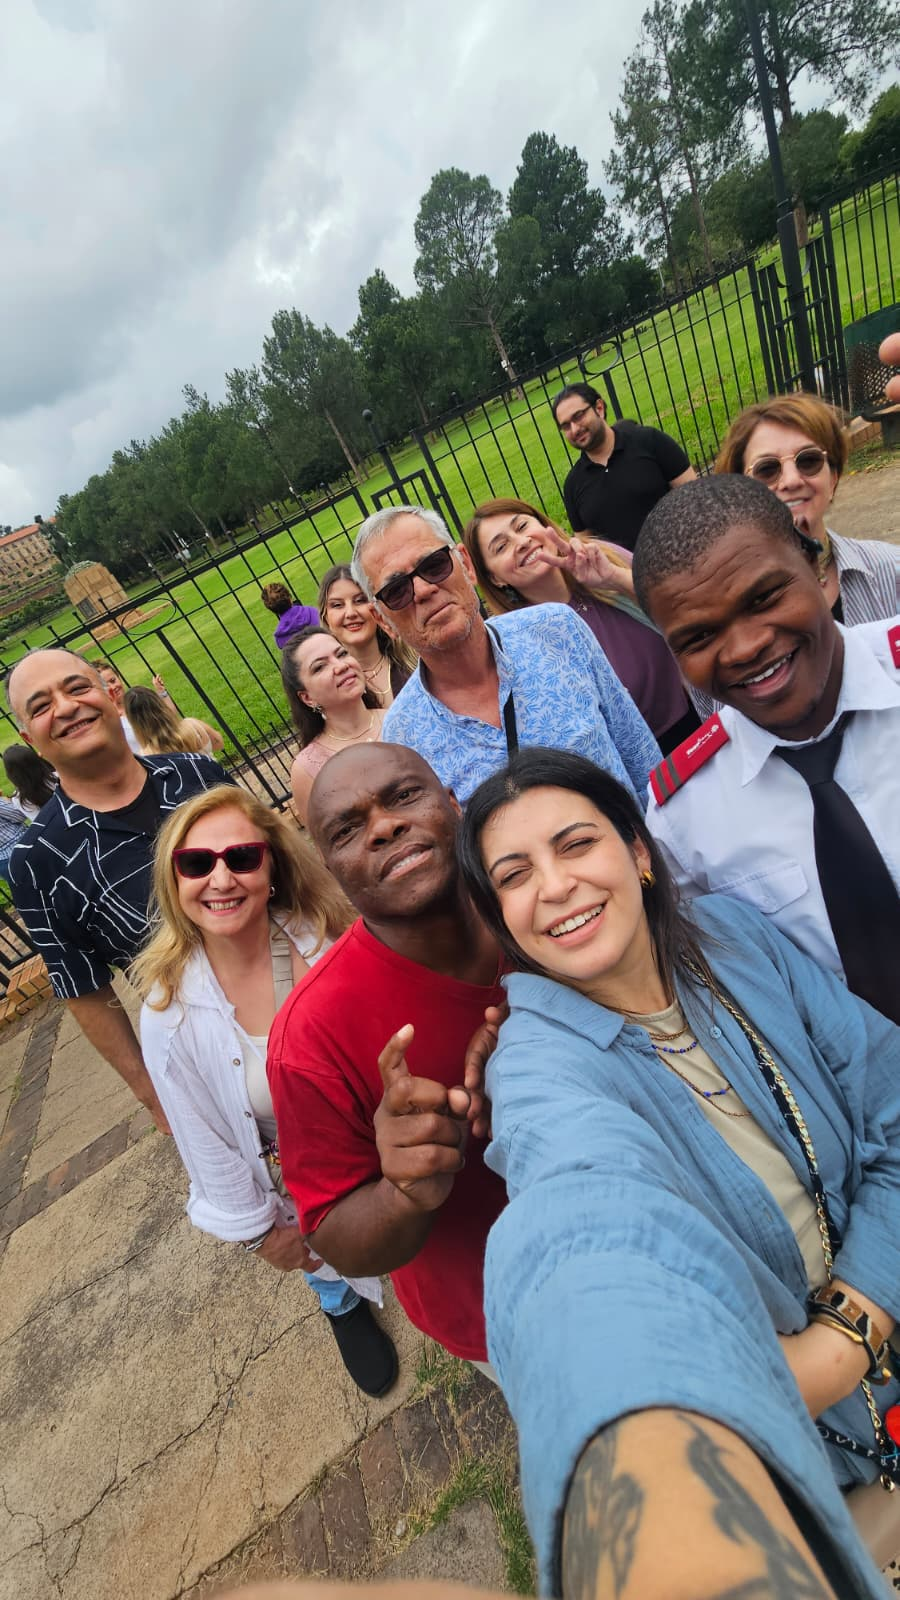
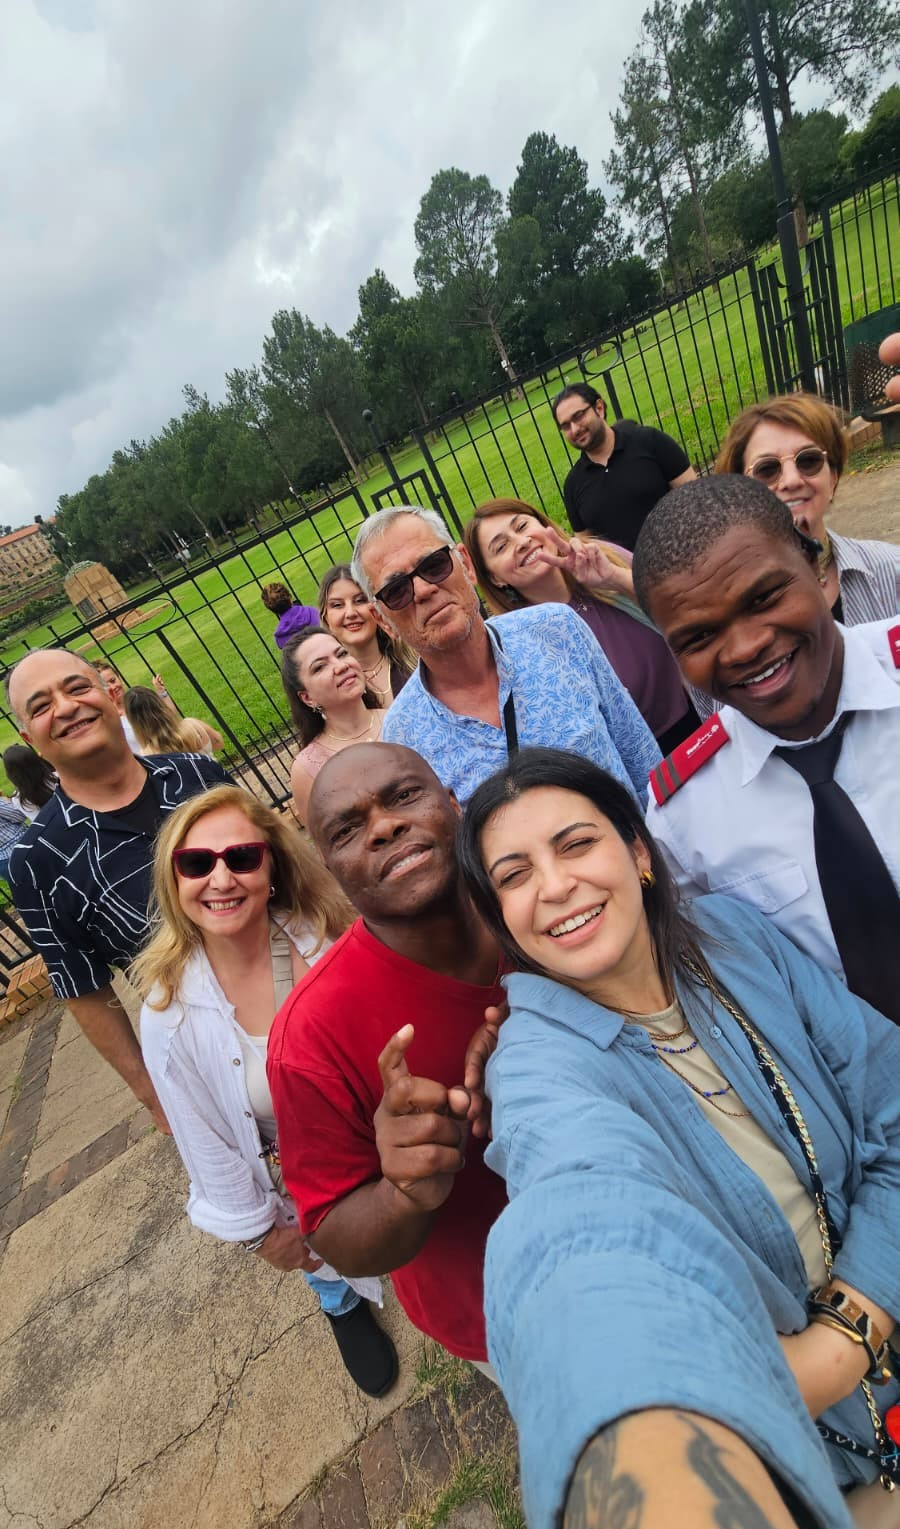
gallary.html

diff --git a/gallery.html b/gallery.html
@@ -2833,6 +2833,45 @@
 						</div>
 					</div>
 
+					<div class="col-lg-4 col-md-4 col-sm-6">
+						<div class="fh5co-blog animate-box">
+							<a href="#"><img class="img-responsive" src="images/gallery/tourists arrival.jpeg" alt=""></a>
+							<div class="blog-text">
+								<div class="prod-title">
+									<h3><a href="#">South African Welcome</a></h3>
+									<span class="posted_by">April - 2026</span>
+									<p>Travelers touch down in South Africa, ready for an unforgettable adventure ahead.</p>
+								</div>
+							</div> 
+						</div>
+					</div>
+
+					<div class="col-lg-4 col-md-4 col-sm-6">
+						<div class="fh5co-blog animate-box">
+							<a href="#"><img class="img-responsive" src="images/gallery/tourists spot.jpeg" alt=""></a>
+							<div class="blog-text">
+								<div class="prod-title">
+									<h3><a href="#">Icon Recognition</a></h3>
+									<span class="posted_by">April - 2026</span>
+									<p>Our expert tour guide stands proudly at the Nelson Mandela statue, welcoming guests to South Africa's rich heritage.</p>
+								</div>
+							</div> 
+						</div>
+					</div>
+
+					<div class="col-lg-4 col-md-4 col-sm-6">
+						<div class="fh5co-blog animate-box">
+							<a href="#"><img class="img-responsive" src="images/gallery/tourists found.jpeg" alt=""></a>
+							<div class="blog-text">
+								<div class="prod-title">
+									<h3><a href="#">Magical First Meeting</a></h3>
+									<span class="posted_by">March - 2026</span>
+									<p>The moment magic happens - our tour guide and guests unite for an extraordinary journey through South Africa's wonders.</p>
+								</div>
+							</div> 
+						</div>
+					</div>
+
 			</div>
 		</div>
 		